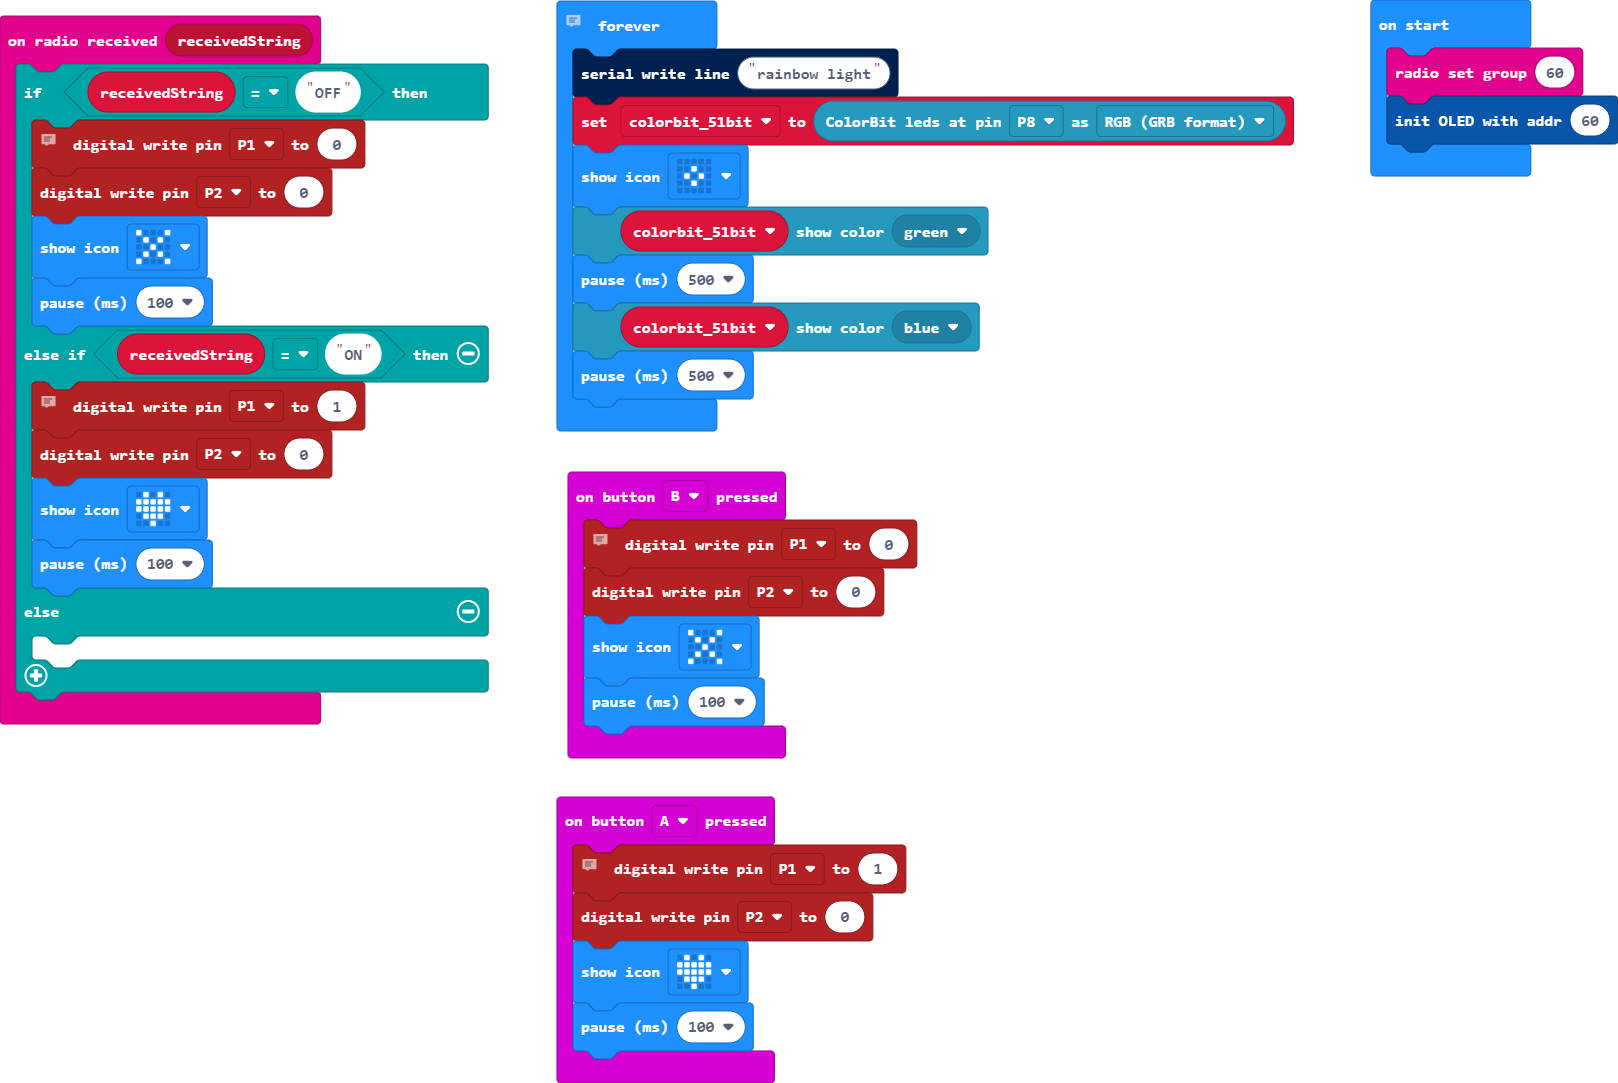
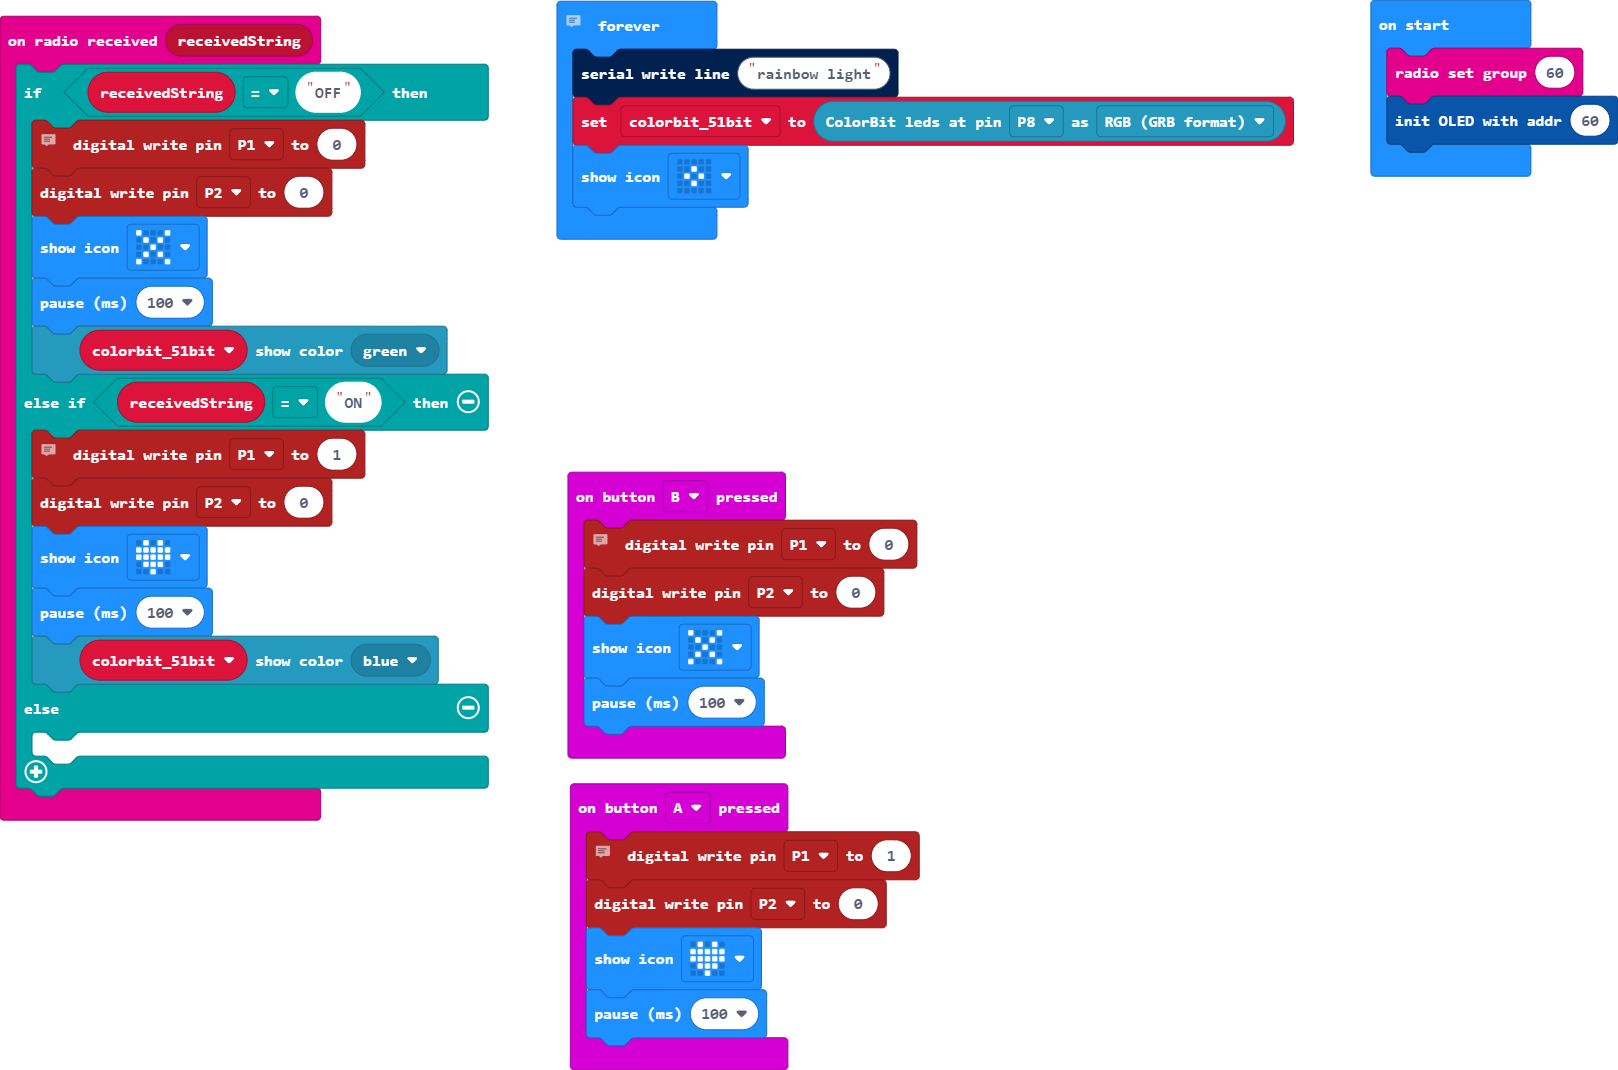
Update main.blocks, main.ts

diff --git a/main.ts b/main.ts
@@ -12,12 +12,14 @@ radio.onReceivedString(function (receivedString) {
         pins.digitalWritePin(DigitalPin.P2, 0)
         basic.showIcon(IconNames.No)
         basic.pause(100)
+        colorbit_51bit.showColor(colorbit.colors(BitColors.Green))
     } else if (receivedString == "ON") {
         // fan on
         pins.digitalWritePin(DigitalPin.P1, 1)
         pins.digitalWritePin(DigitalPin.P2, 0)
         basic.showIcon(IconNames.Heart)
         basic.pause(100)
+        colorbit_51bit.showColor(colorbit.colors(BitColors.Blue))
     } else {
     	
     }
@@ -37,8 +39,4 @@ basic.forever(function () {
     serial.writeLine("rainbow light")
     colorbit_51bit = colorbit.initColorBit(DigitalPin.P8, BitColorMode.RGB)
     basic.showIcon(IconNames.SmallDiamond)
-    colorbit_51bit.showColor(colorbit.colors(BitColors.Green))
-    basic.pause(500)
-    colorbit_51bit.showColor(colorbit.colors(BitColors.Blue))
-    basic.pause(500)
 })
